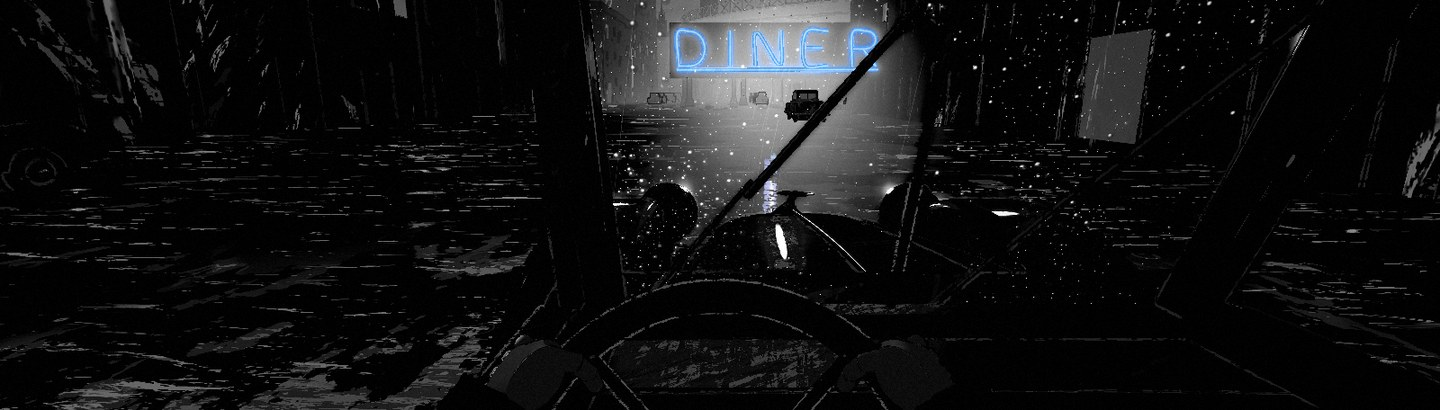
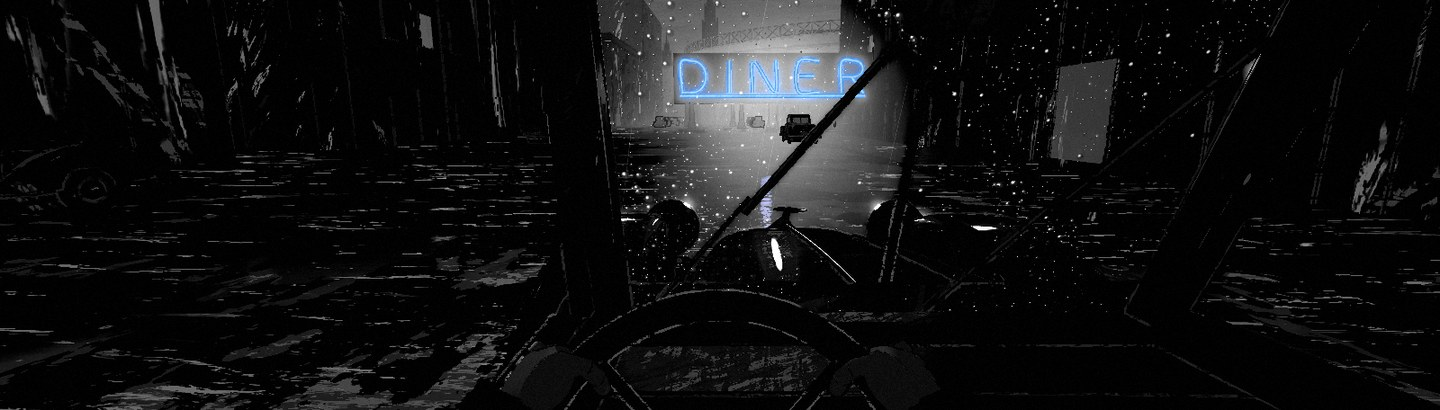
C11: the windscreen strip keeps the sign whole in the page's drift; still_opening re-accepted; the report and the review frames (the gate: build, golden 37/38 identical + still_opening on purpose, errors clean on every touched beat, pier_office 10/10, fps ratios)

diff --git a/src/debug/shots/C9_stills.js b/src/debug/shots/C9_stills.js
@@ -329,9 +329,9 @@ function neon(stage, camera, controller, game) {
   darkStreet(S);
   neonSign(S, V(-95.3, N('ny', 2.75), N('nz', 19)), V(0, 0, 1), { H: N('nh', 0.9) });
   const cab = new Cabin(game);
-  // ([C11] lower and a little wider, -0.1 / 32 -> -0.2 / 41: my knuckles
+  // ([C11] lower and a little wider, -0.1 / 32 -> -0.17 / 44: my knuckles
   // on the wheel in the frame's foot, the sign still at its head)
-  cab.attach(car, { pitch: N('pp', -0.2), fov: N('fv', 41) });
+  cab.attach(car, { pitch: N('pp', -0.17), fov: N('fv', 44) });
   // (the chrome inside dulled: the mirror's glass printed as a pale card)
   if (N('dc', 1) > 0) car.body.traverse((o) => {
     const m = o.isMesh && o.material;

diff --git a/docs/story/reports/wave-c/C11.md b/docs/story/reports/wave-c/C11.md
@@ -1,0 +1,218 @@
+# C11 — the look pass (lane report)
+
+Branch `wave-c/C11-look`, from `wave-c/integration` at 887c23e, port 5351.
+The brief is `docs/story/briefs/C11_LOOK.md`: the frames the art director
+marked while reviewing the lanes, measured against
+`reference/noir_reference.png` and the diner golden
+(`shots/golden/diner_settle.png`): hard black, paper white, one light making
+pools, nothing an even grey. A picture lane: no rule, collider, AI, timing or
+script of any chapter was changed (the one edit in a scene file is a render
+value, section 5). This report is the handover.
+
+Tone figures below are `paper white` = luma >= 230, `mid` = 64..191, `ink`
+= < 40, in % of a 1440 x 900 frame (`shots/c11/tones.py`, not committed: a
+ten-line numpy count). For scale: the reference 5.0 / 30.4 / 50.3, the diner
+golden 14.9 / 29.0 / 36.8.
+
+## 1. The Cardinal's office (VII, beat `office`) — `src/stages/pier9/parts/mezz.js`
+
+Before: the back wall was a glow plane over the whole wall at 1.3 (a
+gradient centred behind the window), so from inside the room printed
+blown-out paper (35.6 % white from the door), the desk a flat grey under a
+ceiling light (40 over 7 m), the photograph a speck on grey.
+
+Now, lit like the diner:
+- **The desk lamp is the one pool.** The office's real light comes out of
+  the desk lamp's shade (0.8, 1.12 over the floor, -44.0) aimed at her
+  photograph (0.16, -43.86): intensity 9, 2.4 m, angle 1.0, penumbra 0.14 - a hard white
+  disc on the desk, its edge sharp, the desk's ends and the room in ink.
+  The lamp's registry entry (what the stealth's exposure, the rain and the
+  rim read) is untouched: only `oLamp.light` moved. Its volumetric cone (a
+  shaft from the ceiling where no lamp hangs) is put out.
+- **A blotter** under the lamp (a felt pad, two leather ends), her
+  photograph on it, in the middle of the pool: it reads at once.
+- **The blinds' light is the second light.** The back wall's glow keeps its
+  plane but takes a picture as its map (`blindLightMap`): the shed's light
+  through the blinds laid in 15 soft-edged bars where the window throws it
+  (a little low and wide, the mullion a black band, a slight lean), feathered
+  into the wall, the rest of the wall near black, a faint warmth by the
+  lamp's foot. The ceiling stays black.
+- From outside nothing is lost: the arrive frame's window across the shed
+  still reads lit with the Cardinal's black shape on it (the bars run 0.2 m
+  above the window's head so the eye from the shed floor, looking up into
+  it, meets light); the listen beat's window, the door's frosted pane and
+  the bars on the catwalk are as they were.
+
+Measured from the door (`pose=1.9,-42.6,0.86,-0.3`): white 35.6 -> 6.7 %,
+mid 10.3 -> 3.9 %. The play over it: the gate, 4.
+
+## 2. The river road (VI, phase b and by the wreck) — `src/stages/city/parts/river.js`, `lamps.js`
+
+Before: a flat grey band of sky and far water over the rail; whites 0.5 %
+(phase b in the car), 1.4 % (the wreck from my seat).
+
+Now:
+- The river road's own Look (eased in as the eye crosses onto it): the fog
+  colour x 0.28 (was 0.6) - the sky, the far water and the mist go to night
+  and the towers to dark masses in it - and the exposure x 1.35 (was 1.0) so
+  what is lit prints white.
+- The far bank's lights each get a halo in the fog (a white sprite 6 to 10 m
+  across, not fogged): from the road they read as lights across black water
+  (alone they were 2 px dots).
+- The quay's posts' cones x 1.5 again (on top of C3's 1.6) and their lights
+  x 1.35; the el's hung lamps over the river road's south half: cones x 2.6,
+  lights x 1.35 (the city's other streets keep theirs).
+- The wet road's streaks (the ground's `uReflStrength`) x 1.6 while the eye
+  is on the river road, eased (the road is one shape over the whole city).
+
+Measured (white / mid): phase b in the car 0.5 / 24.8 -> 1.5 / 20.1; the
+wreck from my seat 1.4 / 31.2 -> 3.1 / 19.7; on foot by the wreck
+1.1 / 35.9 -> 2.5 / 21.8. **Mid-grey is under 30 % everywhere; paper white
+is not at the brief's 5 to 8 %** (see Left 1). A push further (cones x 2.0
+and x 3.6, streaks x 2.0) moved white by 0.1 %: the cones' cores saturate,
+so it was taken back.
+
+## 3. The foot chase (V) — `src/stages/backlot/parts/kitchen.js`, `roofs.js`, `arch.js`
+
+**Kitchen.** The lamp under the hood is the room's one light now: over the
+middle range (z -92.6), strength 1.5, its light 170 at angle 0.9, penumbra
+0.45 - the stove tops, the pots' rims, the tiles behind and the cook
+silhouetted in a hard pool; the steam (three vents now, thicker) shows where
+it crosses that light; the room's fill 0.15 -> 0.07 so the walls away from a
+lamp fall into ink; the two table lamps a step down (170 / 150 -> 110 / 95):
+the way along the table, not the subject. The iron door's bulb (the way
+out) is as it was.
+
+**Roofs.** The chimney stacks were 8.9 m black columns with their coping and
+pots buried in them (`mass()` takes a height; `r.y + 1.7` was passed), and
+the roof door's little house a 9.6 m tower: both are their real height now
+(stacks 2.7 m with coping and pots, standing against the sky's fog over a
+man's head; the house 2.4 m with a coping). Their colliders are plan boxes
+and are unchanged. R2's big skylight box has its glass now, lit from the
+workshop under it (a pale ridge across the roofs, beside R1's). The tar is
+glossier (roughness 0.42 -> 0.26) for its wet sheen under a lamp.
+
+## 4. The opening's stills (C9) — `src/debug/shots/C9_stills.js`, `public/stills/opening_1.jpg`, `opening_3.jpg`
+
+- **The telephone** (`opening_1`): the desk lamp's pool is a hard white
+  ellipse (intensity 6 -> 26, penumbra 0.35 -> 0.08), the receiver matte
+  (its bakelite gloss printed as pale stripes that made it read crude): an
+  ink shape on the white with the lamp's one rim along its bar, its shadow
+  hard under it. **No hand** (see Left 3).
+- **The windscreen** (`opening_3`): the neon lights the drops on the glass
+  (the screen's `uLit` 0.45 -> 1.3: their flecks white, the wiper's arc the
+  clear sweep through them), a light from the sign falls through the glass
+  on the bonnet, the wiper and the wheel, the exposure 0.6 -> 0.72, and the
+  frame is a little lower and wider (pitch -0.1 -> -0.17, fov 32 -> 44) so
+  my gloved knuckles on the wheel are in its foot, rimmed, and the sign keeps
+  its head inside the page's drift (at -0.2 / 41 the page cut its top).
+- `spot()` / `deskLamp()` take a `penumbra` (default 0.35: the other stills
+  are unchanged - the golden check shows their pages identical).
+- Re-rendered with `NOIR_PORT=5351 tools/stills.sh opening_1 opening_3`;
+  the golden page `still_opening` (`still=opening&panel=2`) re-accepted.
+
+## 5. The tail's crew car close up — `src/vehicles/models.js`, `src/scenes/tail/chase.js`
+
+The red glow sprite of each crew tail lamp is sized as it is drawn, by the
+eye's distance: `k = min(wish, max(0.2, 0.2 + (d - 3) x 0.014))` - 0.2 m
+up close against a 0.14 m housing (about x 1.4), growing to the old 0.62 at
+about 33 m, so far off it carries as before. The chase's own wish (its
+distance and the brake's flare) is now written to `sp.userData.wish`
+instead of the scale (the one-line change in `chase.js`, marked `[C11]`);
+a crew car anywhere else takes 0.62 as its wish. Before / after at a bumper's
+length behind his wreck: a red disc half a metre wide -> a lamp-sized glow.
+
+## 6. The first beats — `src/stages/office/parts/room.js`
+
+The first beat of every chapter was captured
+(`?scene=<id>&beat=<first>&hud=0`). Diner, fight, gunfight, watcher, tail
+and pier read black and white; the worst was **III's corridor** (mean 46,
+white 0.2 %, mid 17 %, ink 54 %: walls and ceiling one even grey). Its Look
+now has ambient 0.18 -> 0.07 and haze 0.45 -> 0.2, its two globes' pools
+harder (penumbra 0.95 -> 0.6, the far one 20 -> 22): mid 17.3 -> 12.1 %,
+ink 54 -> 69 %, the ceiling dark, the pools on the walls the light. IV's
+corridor beat (the same Look) was looked at for readability of the men:
+unchanged in effect (mid 16.6 -> 18.5 %).
+
+## The gate (on the final code)
+
+1. `npm run build`: built (the usual chunk-size warning only).
+2. `python3 tools/golden.py check`: **37 of 38 identical**; `still_opening`
+   (the opening's page: `still=opening&panel=2`) changed on purpose - its
+   telephone and windscreen panels are this lane's pictures (section 4) - and
+   is re-accepted (`shots/golden/still_opening.png`). The other five stills'
+   pages are identical. (Two frames, `wreck_t3.1` and `fight_round1`, came
+   back NO CAPTURE in the full run - a headless Chrome that did not finish -
+   and were IDENTICAL when checked again on their own.)
+3. `tools/errors.sh`, clean on every beat touched: warehouse arrive / listen
+   / office / loud, tail start / river / wreck / pier, watcher kitchen / over,
+   `shot=chase&st=kitchen`, office corridor, gunfight corridor,
+   `shot=still_opening_1`, `_3`, `still=opening&panel=2`.
+4. The plays: this lane changed no rule, so its proofs are the chapters'
+   own. One sanity play over the most changed place, `pier_office.json` (the
+   office door, the photograph's prompt under the new lamp, the still, the
+   drawer, the shells, the phone): on the final code 8 / 9 on the first run
+   (its last scripted walk, a diagonal from (1.85, -42.6) through the door to
+   (2.6, -41.6), steered into the east jamb - the walk's own line, no
+   collider was touched), 10 / 10 on the second; on the code before the
+   pool's aim moved, 10 / 10.
+5. Jank: no collider, surface or door changed (the blotter, the skylight's
+   glass, the stacks' and the roof house's heights are visual; their plan
+   colliders are as they were).
+6. Frame rate, once, at the end, UNCAPPED, 1440 x 900 (the GPU busy with
+   another process: ratios only): `shot=perf` 24.6 fps; the river road with
+   the gun out (`scene=tail&beat=river&t=1&anim=1&tailGun=1`) 33.0 fps =
+   1.34 x perf (C3b's own reading 1.36 x: within 2 %); the office from its
+   door 51.7 = 2.1 x; the kitchen (`shot=chase&st=kitchen`) 41.6 = 1.69 x.
+   What this lane added to a frame: one textured plane in place of a
+   vertex-coloured one, a blotter, ~30 far sprites, a skylight's two panes;
+   no new real light (the office's moved).
+
+## Review frames — `docs/story/review/wave-c/C11/`
+
+Each is before (left) | after (right), two rows.
+1. `01_office.jpg` - the office from the door; the desk as the play shows it
+   (the C7 frame the art director marked | the same view in
+   `pier_office.json` on the final code: the photograph in the pool, just
+   inside its left edge from this angle).
+2. `02_river_road.jpg` - the wreck from my seat; phase b in the car.
+3. `03_tail_lamp.jpg` - a bumper's length behind his wreck
+   (`scene=tail&beat=wreck&tailAt=117.6,-45.0,-1.744,0`): the glow; a crop.
+4. `04_chase.jpg` - the kitchen's ranges (`shot=chase&st=kitchen&w=0&at=55.5,-87.0&ay=0.69&ap=-0.08`);
+   the roofs looking west from the stair's head (`shot=chase&st=over&w=0&at=58.5,-108.6&y=7.2&ay=1.57&ap=-0.04`:
+   the chimney a stack now, not a column). Looking east from R1
+   (`at=50,-108.0&y=7.2&ay=-1.2&ap=0.02`) shows the stacks and pots against
+   the sky and R1's skylight best.
+5. `05_stills.jpg` - the telephone; the windscreen strip.
+6. `06_corridor.jpg` - III's first beat; IV's corridor beat (the same Look).
+
+## Left
+
+1. **The river road's paper white is 1.5 to 3.1 %, not 5 to 8 %** (mid-grey
+   is under 30 %). In the car the cabin is half the frame; the remaining
+   white would have to come from more lamps on the quay (posts are things a
+   car hits: a play change, so not done here) or from a brighter street
+   sheen shader-wide. A later look pass with the C3 owner could add hung
+   lamps on the river side of the el or lit windows on the wharf sheds.
+2. **"The el's lights beyond" the roofs** is not done: the el is east of the
+   roofs and the run looks west. A far row of lights in the west (a bridge,
+   a lit street at the end of Tanner's Row) would answer it.
+3. **The telephone panel has no hand.** WAVE_C §5 and the art director's
+   note ask for "the receiver and hand an ink shape"; C9's critic had
+   rejected the rig's hand as blocky. A hand of the player's own rig
+   (`src/player/HandRig.js`, `apply(pos, quat, F, elbow)`) posed round the
+   bar, black on the white pool, is the way; not attempted in this lane's
+   time.
+4. The kitchen's steam still drifts to the ceiling as soft grey under the
+   hood outside the light (the steam shader is shared with the street's
+   grates and the golden frames; not touched).
+5. III's corridor is better but still the greyest first beat: its walls'
+   albedo and the gobo-like wall pools are C5's design; darker walls would
+   need the walls' material, which the gunfight's readability also leans on.
+6. fps is a ratio to `shot=perf` at the same moment, taken once at the end;
+   there is no before reading from this lane (the lanes' own reports give
+   their ratios: C3b river road 2.2 x perf).
+7. A slip: two capture commands early on were run without `NOIR_PORT` and so
+   asked 127.0.0.1:5173 (the other project's port) for a page in headless
+   Chrome; nothing was written there, the frames were deleted and re-taken on
+   5351.
